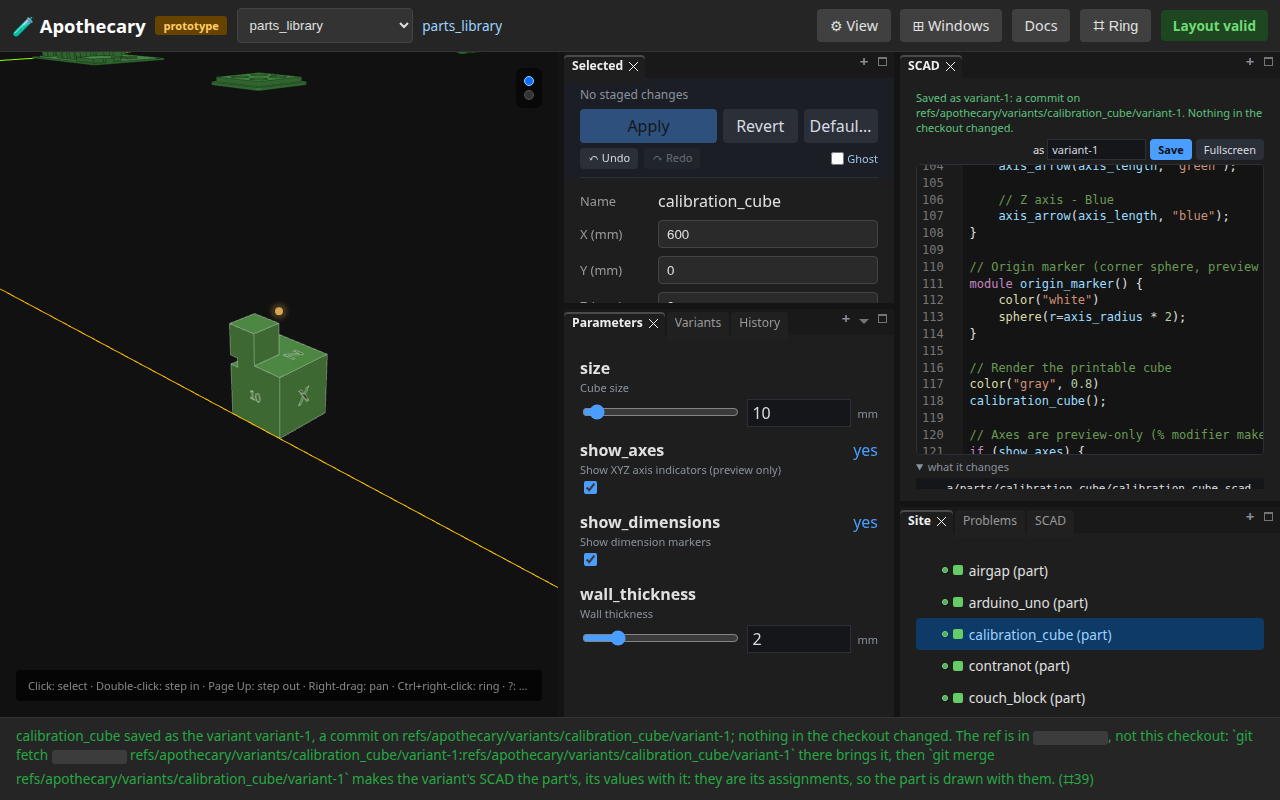
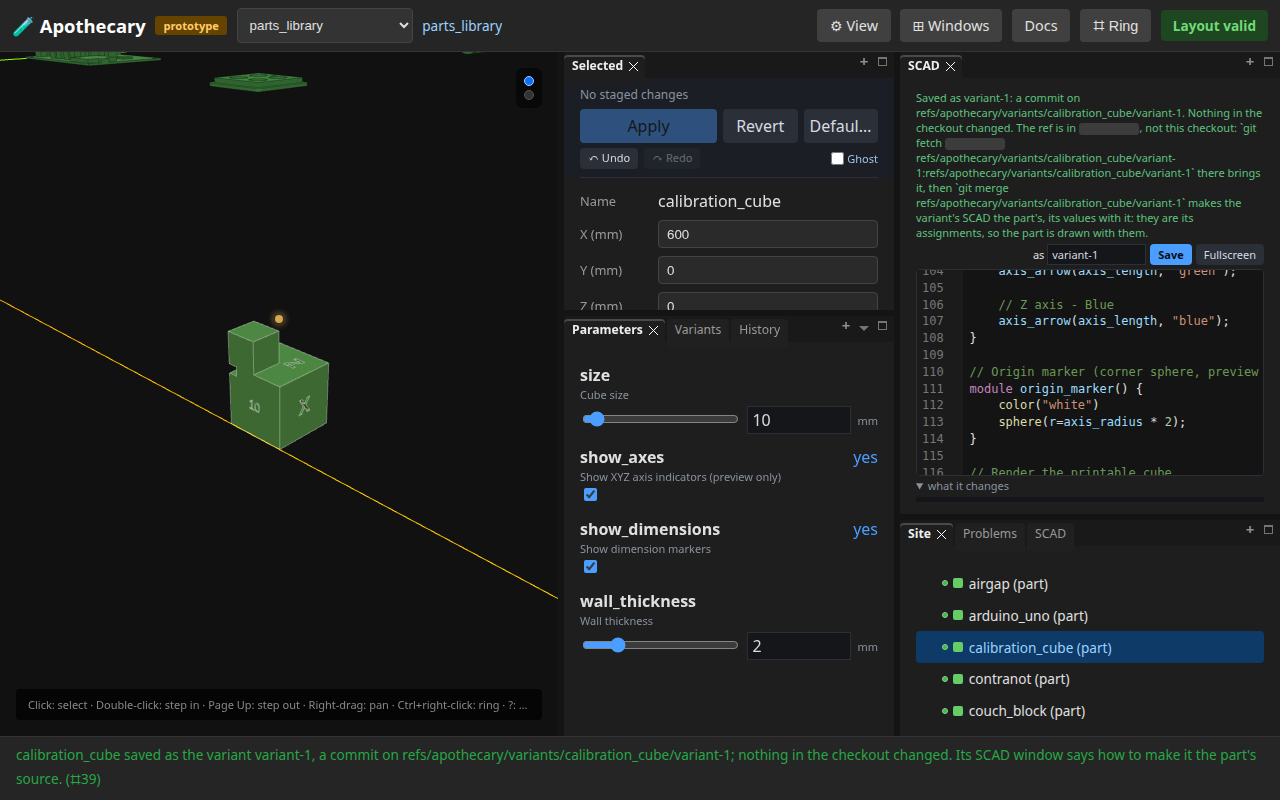
Apply names Part › Save, Save names Slice on one short line, and a print done names the ring's Flash sketch
Walked live on the demo, the footpedal's story read: Apply ended on "an
applied variant, not saved" with no step after it, and Save's next step,
"its ring's Slice slices it for printer_1", came after a git fetch and
merge paragraph several hundred characters long on the one-line status bar.

- A numbers-only Apply of a part whose numbers are its SCAD's says Part ›
  Save keeps it in git, as an Apply of its edited SCAD did.
- Save's status line says what was saved and what comes next; how the
  variant becomes the part's source is the SCAD editor's to say, where it
  stays with the variant.
- A print done of a part whose sketch no board runs names that part's
  ring's Flash sketch.

Pages 04 and 06 are taken again with the new lines (the three pictures
whose status line changed; the others that run rewrote by a few pixels
with nothing on the page changed are not committed). The SCAD loop's
pictures blank the run's own folder in the editor's message as in the
status line. The demo's slicer test asks for Slice among the cells, Flash
sketch following it. The changelog says what this branch adds and fixes.

Tools: Claude Code

diff --git a/tests/e2e/test_scad_loop.py b/tests/e2e/test_scad_loop.py
@@ -56,7 +56,7 @@ RUN_CLONE = re.compile(r"/[^\s`'\"]*?/server\d*/variants\.git")
 # What differs on every run whatever the page does, blanked in the pictures: when each
 # variant was saved, a grey of one width whatever the time, and the run's own folder
 # where the status line names it.
-BLANK = (*all_words(".saved-when"), ("#status", RUN_CLONE.pattern))
+BLANK = (*all_words(".saved-when"), ("#status", RUN_CLONE.pattern), (".scad-said", RUN_CLONE.pattern))
 
 # How long after a check that passes the page renders a SCAD edit, read from the page.
 RENDER_AFTER_CHECK_MS = int(

diff --git a/tests/e2e/test_the_demo.py b/tests/e2e/test_the_demo.py
@@ -442,7 +442,7 @@ def test_a_demo_with_no_slicer_says_how_to_install_one(browser, demo_without_a_s
     try:
         _open_garage(page, url)
         _ring_on(page, "footpedal")
-        assert _labels(page)[-1] == "Slice", _labels(page)
+        assert "Slice" in _labels(page), _labels(page)  # Flash sketch may follow it
         _press(page, "Slice")
         expect(_status(page)).to_contain_text(
             "OrcaSlicer is not installed: apothecary slicer install", timeout=30000

diff --git a/CHANGELOG.md b/CHANGELOG.md
@@ -9,6 +9,9 @@ change since 0.1.0: what is there now that was not, and what 0.1.0 had that is g
 
 ### Added
 
+- One made thing goes round the four loops: the footpedal on the garage's bench, sized, its SCAD edited and saved, sliced and printed, then its own sketch flashed to its board and heard, each loop's last message naming the next on it; a part whose sketch no board runs has Flash sketch on its ring and in its Device section, which open the Bench on that sketch and on the port of the board it is for. ([page](walkthrough/00-getting-started.md))
+- A devkit's LED flashes on its badges with each blink it is heard saying, and a heating or printing printer's badge pulses. ([code](templates/fractal_viewer.html.j2))
+- `serve --demo` runs a simulated lighting console, sweeping the theatre's rig, unless a real console is listened for. ([doc](docs/lighting.md))
 - The dev loop, a page of its own: change, see, test, commit, and integrate, both what others pushed into a checkout and a change into `main`; `apothecary --help` ends with it, after where to start. ([doc](docs/dev-loop.md))
 - A site can carry a lighting rig, and the viewer lights it from a console: a theatre as a site, its shell sized by sliders and an example rig in it, fixtures drawn in their live colour, `serve --console-sacn` and `--console-osc`, a PUT for what has no DMX address, and `apothecary lighting simulate`. ([doc](docs/lighting.md))
 - `apothecary serve --demo` goes round every loop with nothing real: printer_1's mainboard pinned to an idle simulated Ender, a simulated ESP32 devkit, the scripted arduino-cli, cargo and espflash, and the OrcaSlicer installed (or Slice says how to install one), on a state folder of its own, `.cache/demo` in the checkout, kept between runs. A line above the header says it is the demo and how to leave it, and no real serial port is opened or listed. ([code](apothecary/demo.py))
@@ -133,6 +136,8 @@ change since 0.1.0: what is there now that was not, and what 0.1.0 had that is g
 
 ### Fixed
 
+- A turn of the wheel or a trackpad over the world dollies by its size at any pixel ratio: on a page zoomed below 100% one turn threw the view to its nearest. ([code](templates/fractal_viewer.html.j2))
+- The Lighting panel says when the server is not answering, where its poll threw an error five times a second. ([code](apothecary/static/lighting.js))
 - A kept print file's id that starts with a dot or holds a separator names no file, to read, delete or print. ([code](apothecary/firmware/devices.py))
 - A printer's control latch runs on the monotonic clock: a step of the wall clock neither ends an armed window nor lengthens one. ([code](apothecary/firmware/gcode.py))
 - The emergency stop is written at once, ahead of an exchange in flight (a homing, a bed probe), and the board's halt line is its answer rather than an error. ([doc](docs/firmware.md))

diff --git a/walkthrough/06-editing-a-parts-scad.md b/walkthrough/06-editing-a-parts-scad.md
@@ -46,7 +46,7 @@ calibration_cube's ring, Part › Save: the edited SCAD, its values in it, commi
 ![Part › Save keeps it as a variant in git](screenshots/06-04-part-save-keeps-it-as-a-variant-in-git.png)
 
 ```
-calibration_cube saved as the variant variant-1, a commit on refs/apothecary/variants/calibration_cube/variant-1; nothing in the checkout changed. The ref is in <the test server's variants repository>, not this checkout: `git fetch <the test server's variants repository> refs/apothecary/variants/calibration_cube/variant-1:refs/apothecary/variants/calibration_cube/variant-1` there brings it, then `git merge refs/apothecary/variants/calibration_cube/variant-1` makes the variant's SCAD the part's, its values with it: they are its assignments, so the part is drawn with them. (⌗39)
+calibration_cube saved as the variant variant-1, a commit on refs/apothecary/variants/calibration_cube/variant-1; nothing in the checkout changed. Its SCAD window says how to make it the part's source. (⌗39)
 ```
 
 ## 5. Fullscreen covers the page
@@ -62,7 +62,7 @@ In the SCAD window: a name typed, taller, and the top made as big as the cube, r
 ![Round two: a name, a change and Save](screenshots/06-06-round-two-a-name-a-change-and-save.png)
 
 ```
-calibration_cube saved as the variant taller, a commit on refs/apothecary/variants/calibration_cube/taller; nothing in the checkout changed. The ref is in <the test server's variants repository>, not this checkout: `git fetch <the test server's variants repository> refs/apothecary/variants/calibration_cube/taller:refs/apothecary/variants/calibration_cube/taller` there brings it, then `git merge refs/apothecary/variants/calibration_cube/taller` makes the variant's SCAD the part's, its values with it: they are its assignments, so the part is drawn with them.
+calibration_cube saved as the variant taller, a commit on refs/apothecary/variants/calibration_cube/taller; nothing in the checkout changed. Its SCAD window says how to make it the part's source.
 ```
 
 ## 7. Part › Variants draws the first again

diff --git a/walkthrough/04-designing-a-part.md b/walkthrough/04-designing-a-part.md
@@ -45,7 +45,7 @@ Apply: the text rendered, its size in it and nothing passed beside it, into the 
 ![Apply draws the variant, marked as not saved](screenshots/04-03-apply-draws-the-variant-marked-as-not-saved.png)
 
 ```
-calibration_cube regenerated: an applied variant, not saved
+calibration_cube regenerated: an applied variant, not saved; Part › Save keeps it in git
 envelope 30.00 × 30.00 × 30.00 mm · measured 30.00 × 30.00 × 30.00 mm
 ```
 
